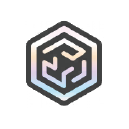
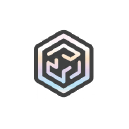
修改理性的图标大小

Changed region(s): [[0.186, 0.155, 0.8062, 0.8372]]

diff --git a/src/main/java/tentianqinyin/relics/origin/Rational.java b/src/main/java/tentianqinyin/relics/origin/Rational.java
@@ -2,6 +2,7 @@ package tentianqinyin.relics.origin;
 
 import com.megacrit.cardcrawl.actions.common.ApplyPowerAction;
 import com.megacrit.cardcrawl.actions.common.DamageAction;
+import com.megacrit.cardcrawl.actions.common.ReducePowerAction;
 import com.megacrit.cardcrawl.actions.utility.UseCardAction;
 import com.megacrit.cardcrawl.cards.AbstractCard;
 import com.megacrit.cardcrawl.cards.DamageInfo;
@@ -11,6 +12,7 @@ import com.megacrit.cardcrawl.powers.AbstractPower;
 import com.megacrit.cardcrawl.powers.BarricadePower;
 import com.megacrit.cardcrawl.powers.StrengthPower;
 import tentianqinyin.character.TenTianQinYin;
+import tentianqinyin.powers.Impressive;
 import tentianqinyin.relics.BaseRelic;
 
 import static tentianqinyin.BasicMod.makeID;
@@ -30,6 +32,14 @@ public class Rational extends BaseRelic {
     @Override
     public void atTurnStart() {
         boolean powerExists = false;
+
+        for(AbstractPower pow : AbstractDungeon.player.powers) {
+            if (pow.ID.equals("tentianqinyin:Impressive")) {
+                addToBot(new ReducePowerAction(AbstractDungeon.player, AbstractDungeon.player, pow, 1));
+                break;
+            }
+        }
+
         for(AbstractPower pow : AbstractDungeon.player.powers) {
             if (pow.ID.equals("Barricade")) {
                 powerExists = true;
